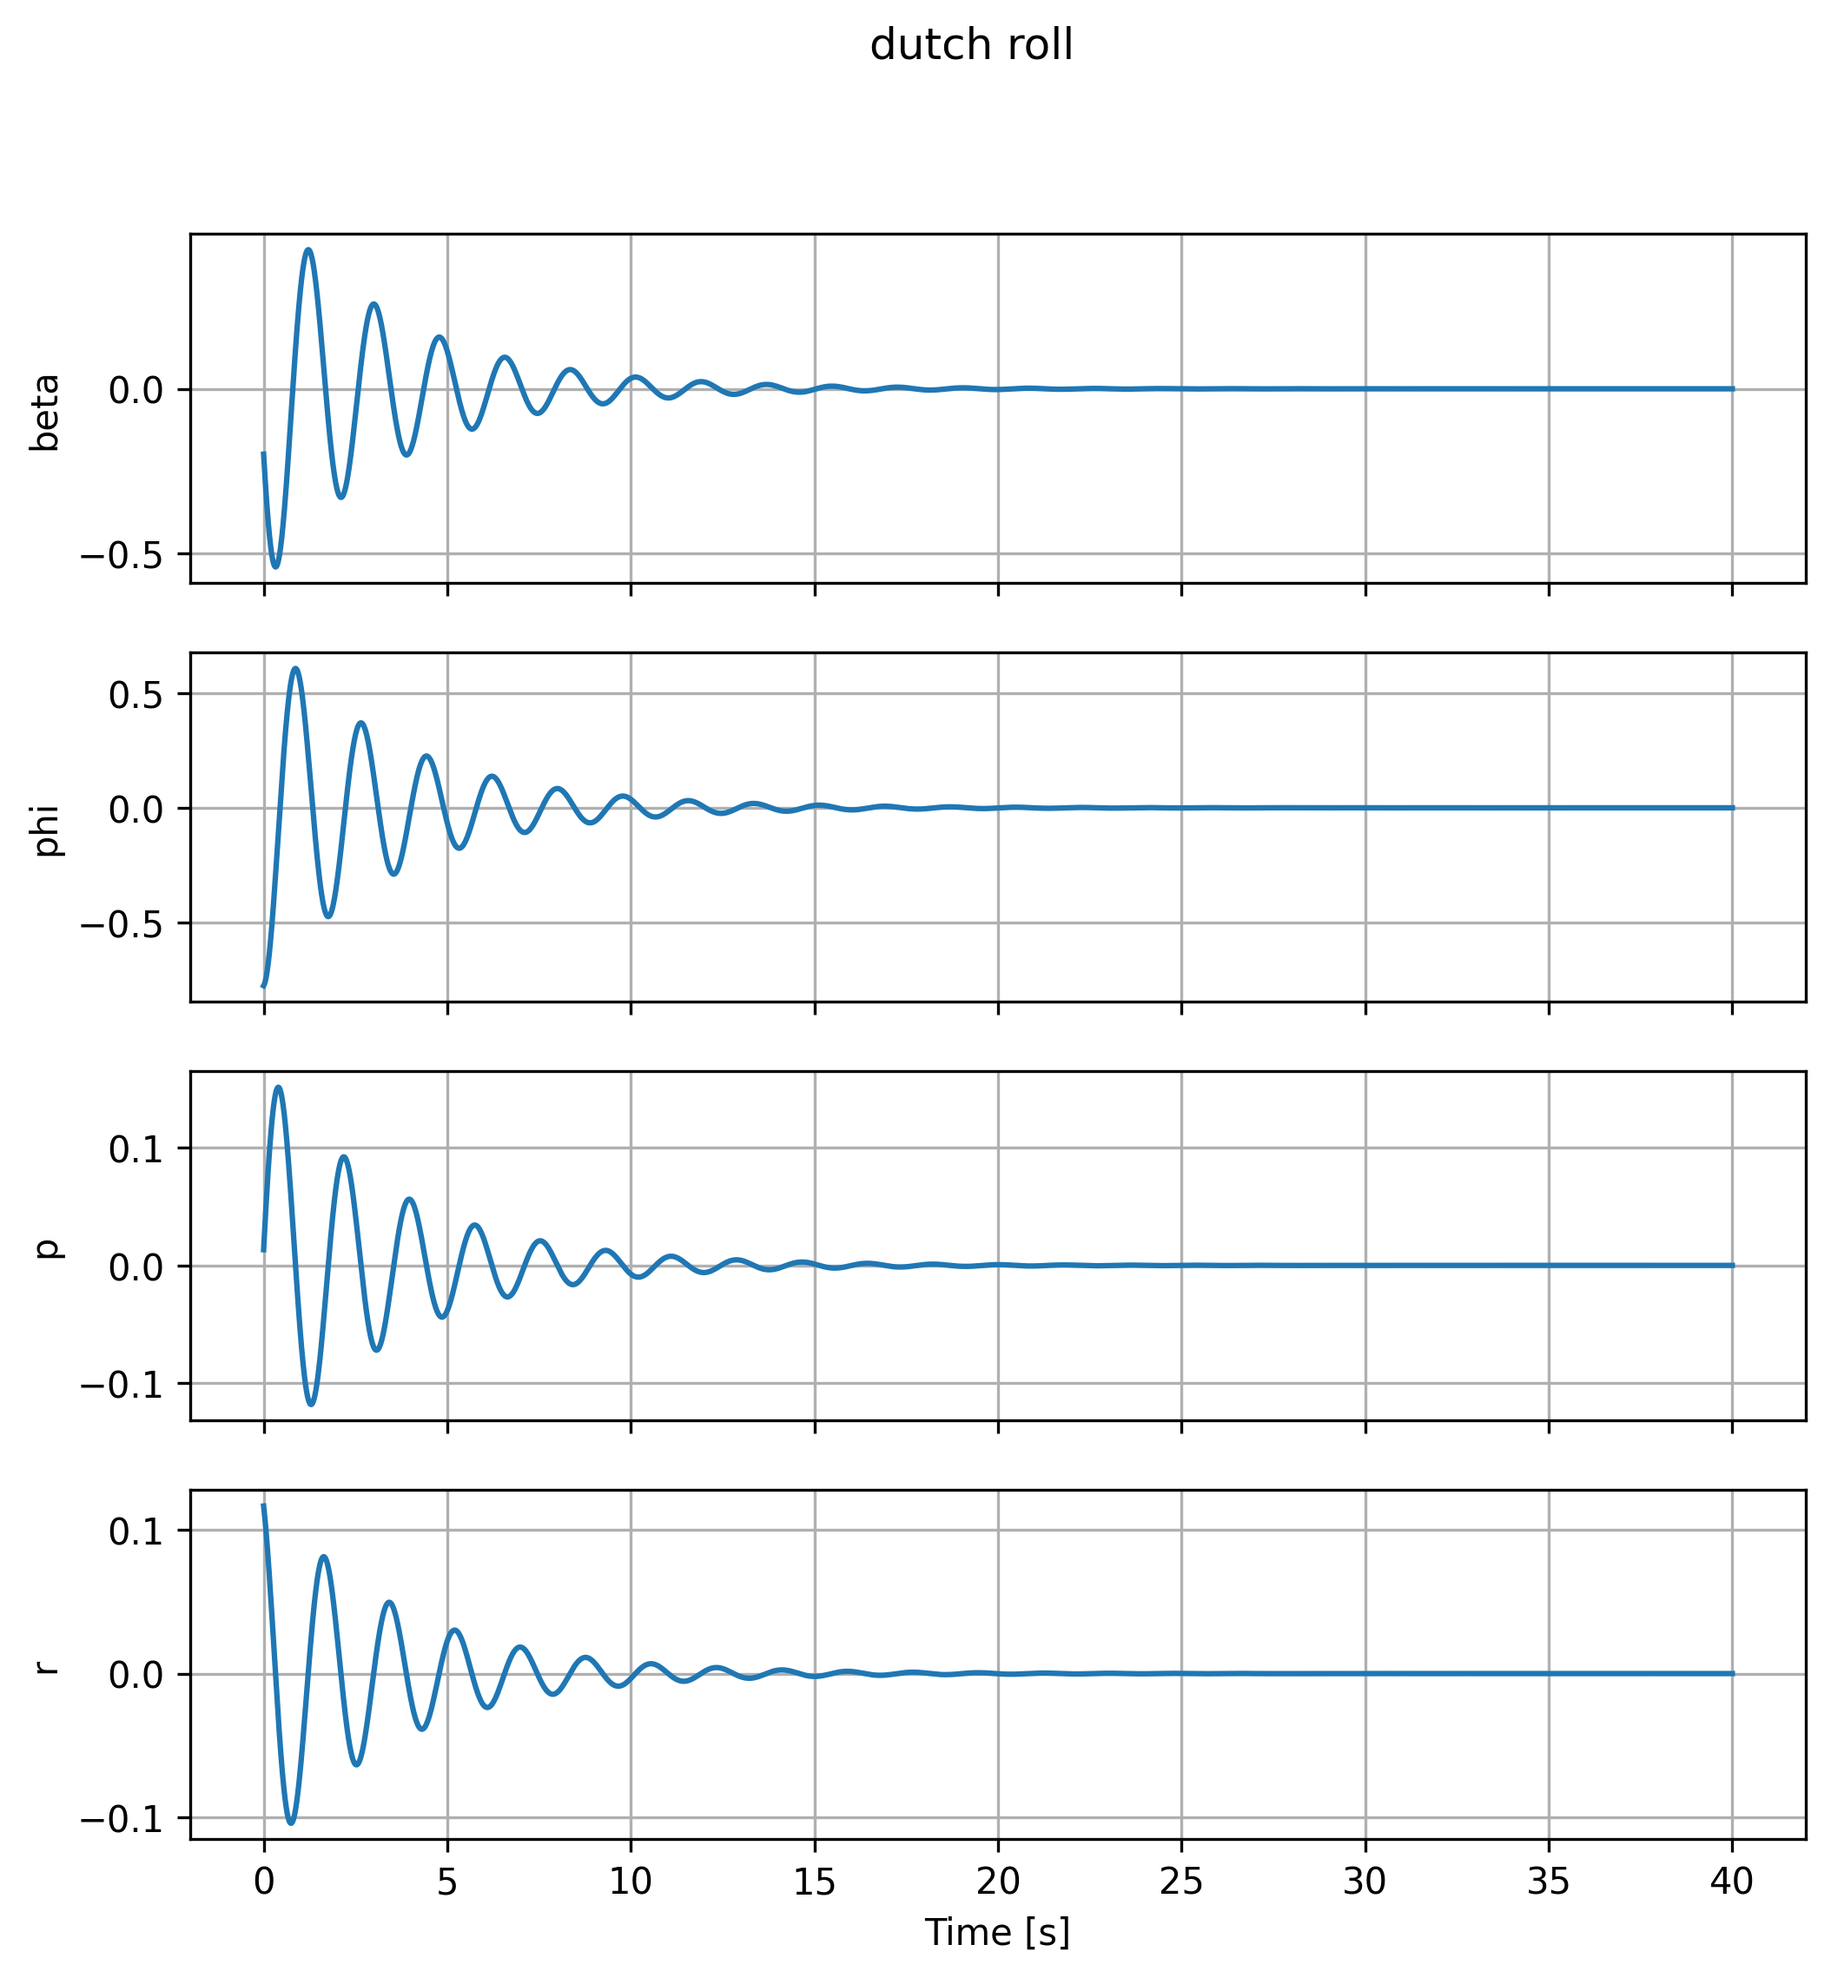
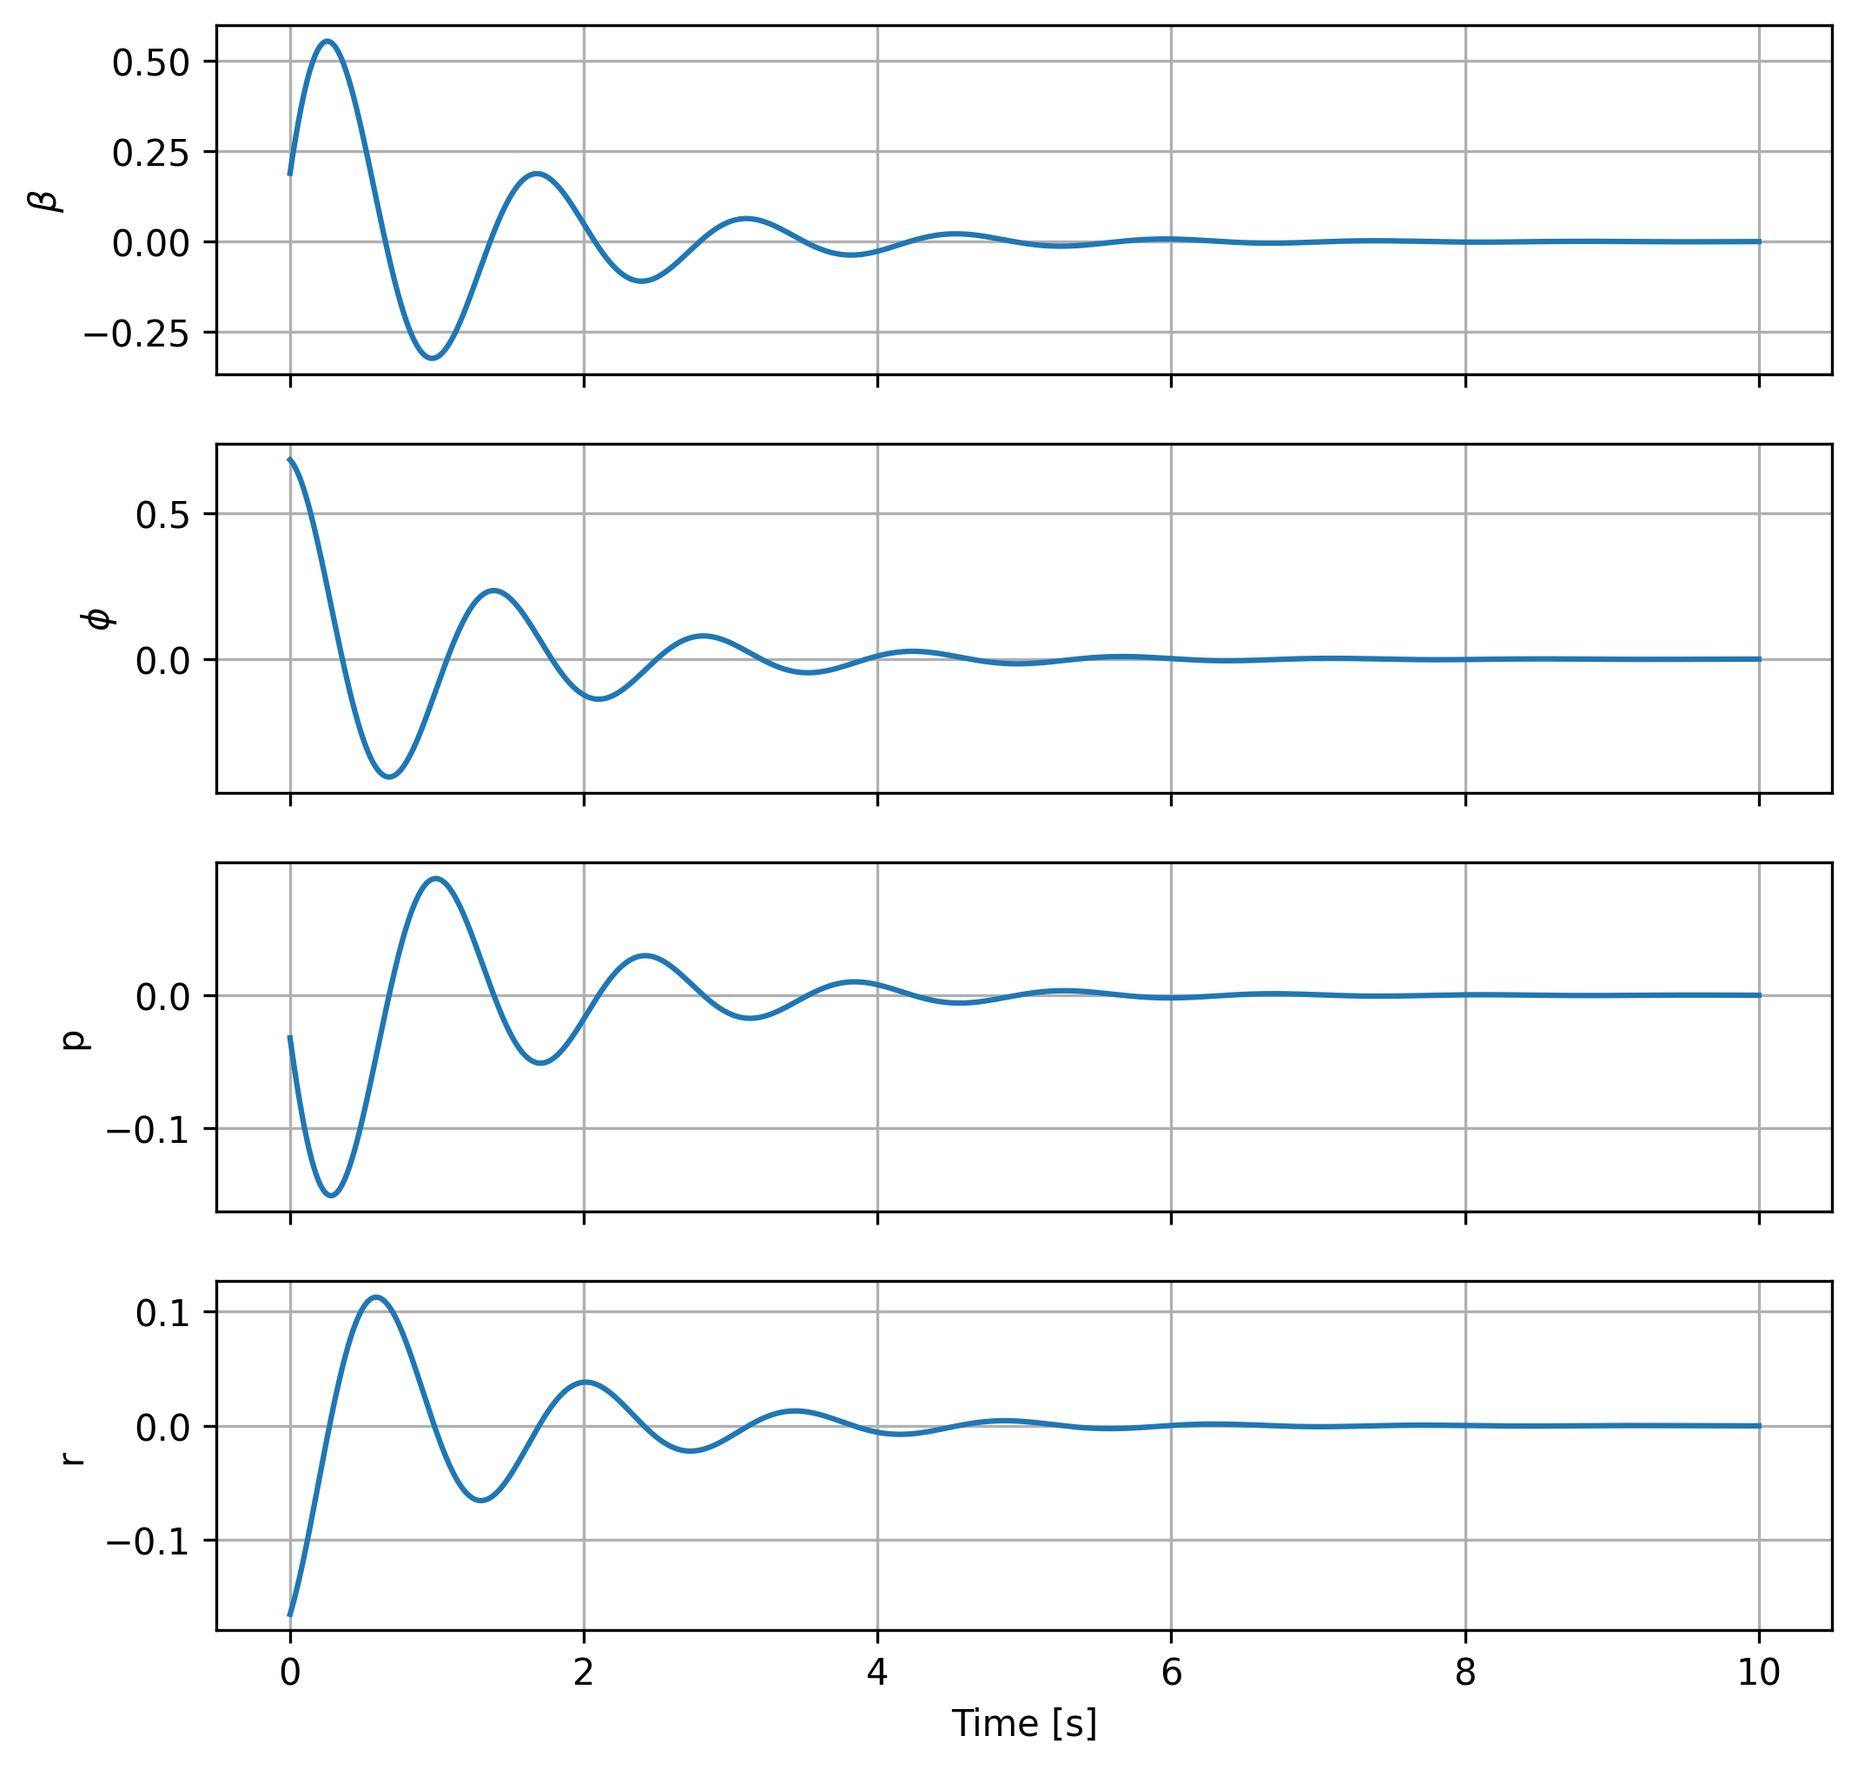
final stability analysis

diff --git a/c&s/derivatives_parameters.py b/c&s/derivatives_parameters.py
@@ -14,25 +14,25 @@ target_class = Aircraft
 aircraft = loader.load(file_path, target_class)
 
 
-Ixx = 10262.381  # kg*m2
-Iyy = 5087.016 # kg*m2
-Izz = 13691.332  # kg*m2
-Ixy = 0.093  # kg*m2
-Iyz = 0.231  # kg*m2
-Ixz = 429.382  # kg*m2
+Ixx = 10078.193  # kg*m2
+Iyy = 5034.751 # kg*m2
+Izz = 13474.965  # kg*m2
+Ixy = -0.105  # kg*m2
+Iyz = 0.219  # kg*m2
+Ixz = 430.507  # kg*m2
 
 #calculate_aircraft_parameters(1870, 8500, rho[0], 132, 25.65, Ixx, Iyy, Izz, Ixz)
-mtom = 1849.597 #[kg]
-h_cruise = 8500 #[ft]
+mtom = 1837.806 #[kg]
+h_cruise = 2590.8 #[m]
 V_cruise = 132 #[knots]
 S = 31.4 #m2
 
 atmos_model = Atmosphere(h_cruise, 0)
-rho = atmos_model.density
-
-hp0 = h_cruise * FT_TO_M  # Pressure altitude in the stationary flight condition [m]
+rho = float(atmos_model.density)
+hp0 = h_cruise  # Pressure altitude in the stationary flight condition [m]
 V0 = V_cruise * KTS_TO_MS # True airspeed in the stationary flight condition [m/sec]
-C_L_1 = mtom * g * 2 / (rho * V_cruise ** 2 * S)
+CL = mtom * g * 2 / (rho * V0 ** 2 * S)
+print(CL)
 alpha0 = 1.5 * np.pi / 180 # Angle of attack in the stationary flight condition [rad]
 th0 = 0  # Pitch angle in the stationary flight condition [rad]
 
@@ -42,23 +42,23 @@ m = mtom  # Mass [kg]
 # Aerodynamic properties
 e = 0.783  # Oswald factor [ ]
 CD0 = 0.02591  # Zero-lift drag coefficient [ ]
-CLa = 5.27  # Slope of C_L-alpha curve [ ]
+CLa = 5.32  # Slope of C_L-alpha curve [ ]
 
 # Longitudinal stability
-Cma = -1.01  # Longitudinal stability [ ]
-Cmde = 3.646  # Elevator effectiveness [ ]
+Cma = -1.057  # Longitudinal stability [ ]
+Cmde = -1.7215 # Elevator effectiveness [ ]
 
 # Aircraft geometry
 S = S  # Wing area [m^2]
-Sh = 3.92 # Stabiliser area [m^2]
+Sh = 6.7 # Stabiliser area [m^2]
 Sh_S = Sh / S  # [ ]
-lh = 4.96  # Tail length [m]
+#lh = 4.96  # Tail length [m]
 c = 1.87 # Mean aerodynamic cord [m]
-lh_c = lh / c  # [ ]
+#lh_c = lh / c  # [ ]
 b = 16.8  # Wing span [m]
-bh = 6.34  # Stabiliser span [m]
+#bh = 6.34  # Stabiliser span [m]
 A = b ** 2 / S  # Wing aspect ratio [ ]
-Ah = bh ** 2 / Sh  # Stabiliser aspect ratio [ ]
+#Ah = bh ** 2 / Sh  # Stabiliser aspect ratio [ ]
 # Vh_V = 1  # [ ]
 ih = 0 # Stabiliser angle of incidence [rad]
 
@@ -73,56 +73,56 @@ dc = c / V0
 db = b/(2*V0) 
 
 # Aerodynamic constants
-Cmac = 0  # Moment coefficient about the aerodynamic centre [ ]
+#Cmac = 0  # Moment coefficient about the aerodynamic centre [ ]
 CNwa = CLa  # Wing normal force slope [ ]
-CNha = 2 * np.pi * Ah / (Ah + 2)  # Stabiliser normal force slope [ ]
+#CNha = 2 * np.pi * Ah / (Ah + 2)  # Stabiliser normal force slope [ ]
 depsda = 4 / (A + 2)  # Downwash gradient [ ]
 
 # Lift and drag coefficient
-CL = 2 * mtom / (rho * V0 ** 2 * S)  # Lift coefficient [ ]
+# CL = 2 * mtom / (rho * V0 ** 2 * S)  # Lift coefficient [ ]
 CD = CD0 + (CLa * alpha0) ** 2 / (np.pi * A * e)  # Drag coefficient [ ]
-
+print("CD",CD)
 # Stability derivatives
 
-CX0 = 0.0037308 #mtom * np.sin(th0) / (0.5 * rho * V0 ** 2 * S)
-CXu = -0.0000572
-CXa = -0.261455  # Positive, see FD lecture notes
+CX0 = 0.0037133 #mtom * np.sin(th0) / (0.5 * rho * V0 ** 2 * S)
+CXu = -0.0534
+CXa = -0.26165  # Positive, see FD lecture notes
 CXadot = 0
-CXq = -0.455
-CXde = -0.0086
+CXq = -0.4569102
+CXde = -0.0114175
 
-CZ0 = 0.00048#- mtom * np.cos(th0) / (0.5 * rho * V0 ** 2 * S)
-CZu = 0.00408
-CZa = 0.002822
+CZ0 = -0.2271869#- mtom * np.cos(th0) / (0.5 * rho * V0 ** 2 * S)
+CZu = -CL
+CZa = -5.325
 CZadot = 0 #-2 * 0.116 * np.pi / 180 * lh * Sh_S * depsda
-CZq =0.00344 #small angle assumption -CLq = CZq
-CZde = -1.16
+CZq =-9.3594 #small angle assumption -CLq = CZq
+CZde = -0.0027
 
-Cm0 = -0.01007  # wrong but doesnt matter
-Cmu = 0.00408
+Cm0 = -0.00776
+Cmu = -0.0007061
 Cmadot = 0 
-Cmq = -16.857
+Cmq = -17.034
 # CmTc = -0.0064 #dont know dont need?
 #
-CYb = 0.0715
+CYb = -0.375
 CYbdot = 0 #assumed zero
-CYp = 0.0094
-CYr = -0.0093
-CYda = 0.0165  # dont know
-CYdr = -0.0046  # dont know
+CYp = -0.0299074
+CYr = 0.233864
+CYda = 0.0061034 
+CYdr = 0.13313
 #
-Clb = -0.188
-Clp = -0.6199 
-Clr = 0.1058
-Clda = 0.02015  # dont know
-Cldr = -0.159  # dont know
+Clb = -0.171
+Clp = -0.6153418
+Clr = 0.0977866
+Clda = -0.1595  
+Cldr = 0.01874
 #
-Cnb = 0.06509
+Cnb = 0.04723
 Cnbdot = 0
-Cnp = -0.02269
-Cnr = -0.0771
-Cnda = 0.00118  # dont know
-Cndr = -0.0453  # dont know
+Cnp = -0.02735
+Cnr = -0.0681
+Cnda = 0.0018233
+Cndr = -0.0424711
 
 
 # if __name__=="__main__":
@@ -139,3 +139,8 @@ Cndr = -0.0453  # dont know
 #     Ixz = 0
 
 #     calculate_aircraft_parameters(1870, 8500, rho[0], 132, 25.65, Ixx, Iyy, Izz, Ixz)
+print("rho =", rho)
+print("muc =", muc)
+print("CL =", CL)
+print("CX0 =", CX0)
+print("CZ0 =", CZ0)

diff --git a/c&s/eigenmotion_analysis.py b/c&s/eigenmotion_analysis.py
@@ -26,7 +26,7 @@ def plot_response(sys, x0, labels, t_final, title):
         axs[i].grid()
 
     axs[-1].set_xlabel("Time [s]")
-    fig.suptitle(title)
+    # fig.suptitle(title)
 
     save_dir = os.path.join(
     os.path.dirname(__file__),
@@ -84,7 +84,7 @@ def plot_disturbance_response_asym(sys, t_final, labels, title, a_angle, r_angle
         axs[i].grid()
 
     axs[-1].set_xlabel("Time [s]")
-    fig.suptitle(title)
+    # fig.suptitle(title)
 
     save_dir = os.path.join(
     os.path.dirname(__file__),
@@ -102,29 +102,29 @@ def plot_disturbance_response_asym(sys, t_final, labels, title, a_angle, r_angle
 #short period
 idx_sp = np.argmax(np.abs(np.imag(eigenvals_sym))) #largest imaginary eigenvalue is sp
 x0_sp = np.real(eigenvecs_sym[:,idx_sp]) 
-plot_response(sys_sym, x0_sp, ["u", 'alpha','theta','q'],t_final=10, title = "short period")
+plot_response(sys_sym, x0_sp, ["u", r'$\alpha$',r'$\theta$','q'],t_final=5, title = "short period")
 
 #phugoid
 complex_modes = np.where(np.abs(np.imag(eigenvals_sym)) > 1e-6)[0]
 idx_ph = complex_modes[np.argmin(np.abs(np.imag(eigenvals_sym[complex_modes])))]
 x0_ph = np.real(eigenvecs_sym[:, idx_ph])
-plot_response(sys_sym, x0_ph, ["u","alpha","theta","q"], t_final=200, title = 'phugoid')
+plot_response(sys_sym, x0_ph, ["u",r"$\alpha$",r"$\theta$","q"], t_final=200, title = 'phugoid')
 
 #Dutch roll
 idx_dr = np.argmax(np.abs(np.imag(eigenvals_asym)))
 x0_dr = np.real(eigenvecs_asym[:, idx_dr])
-plot_response(sys_asym, x0_dr, ["beta","phi","p","r"], t_final = 40, title = 'dutch roll')
+plot_response(sys_asym, x0_dr, [r"$\beta $",r"$\phi$","p","r"], t_final = 10, title = 'dutch roll')
 
 #Aperiodic roll
 real_modes = np.where(np.abs(np.imag(eigenvals_asym)) < 1e-6 )[0]
 idx_ar = real_modes[np.argmin(np.real(eigenvals_asym[real_modes]))]
 x0_ar = np.real(eigenvecs_asym[:, idx_ar])
-plot_response(sys_asym, x0_ar,["beta","phi","p","r"], t_final=5, title = 'aperiodic roll')
+plot_response(sys_asym, x0_ar,[r"$\beta$",r"$\phi$","p","r"], t_final=3, title = 'aperiodic roll')
 
 #Spiral
 idx_spiral = real_modes[np.argmax(np.real(eigenvals_asym[real_modes]))]
 x0_spiral = np.real(eigenvecs_asym[:, idx_spiral])
-plot_response(sys_asym, x0_spiral, ["beta","phi","p","r"], t_final = 500, title = 'spiral')
+plot_response(sys_asym, x0_spiral, [r"$\beta$",r"$\phi$","p","r"], t_final = 200, title = 'spiral')
 
 #disturbance due to control input
 plot_disturbance_response_sym(sys_sym, 10, ["u", 'alpha','theta','q'], title = "short period disturbance", e_angle=2)

diff --git a/c&s/matrices.py b/c&s/matrices.py
@@ -93,7 +93,8 @@ D_Asym = np.zeros((4,2))
 sys_sym = ctr.ss(A_sym, B_sym, C_sym, D_sym)
 sys_asym = ctr.ss(A_Asym, B_Asym, C_Asym, D_Asym)
 
-# print(A_sym)
+print(np.linalg.eigvals(A_sym))
+print(A_sym)
 # print(A_Asym)
 # print(B_Asym)
 # print(B_sym)
